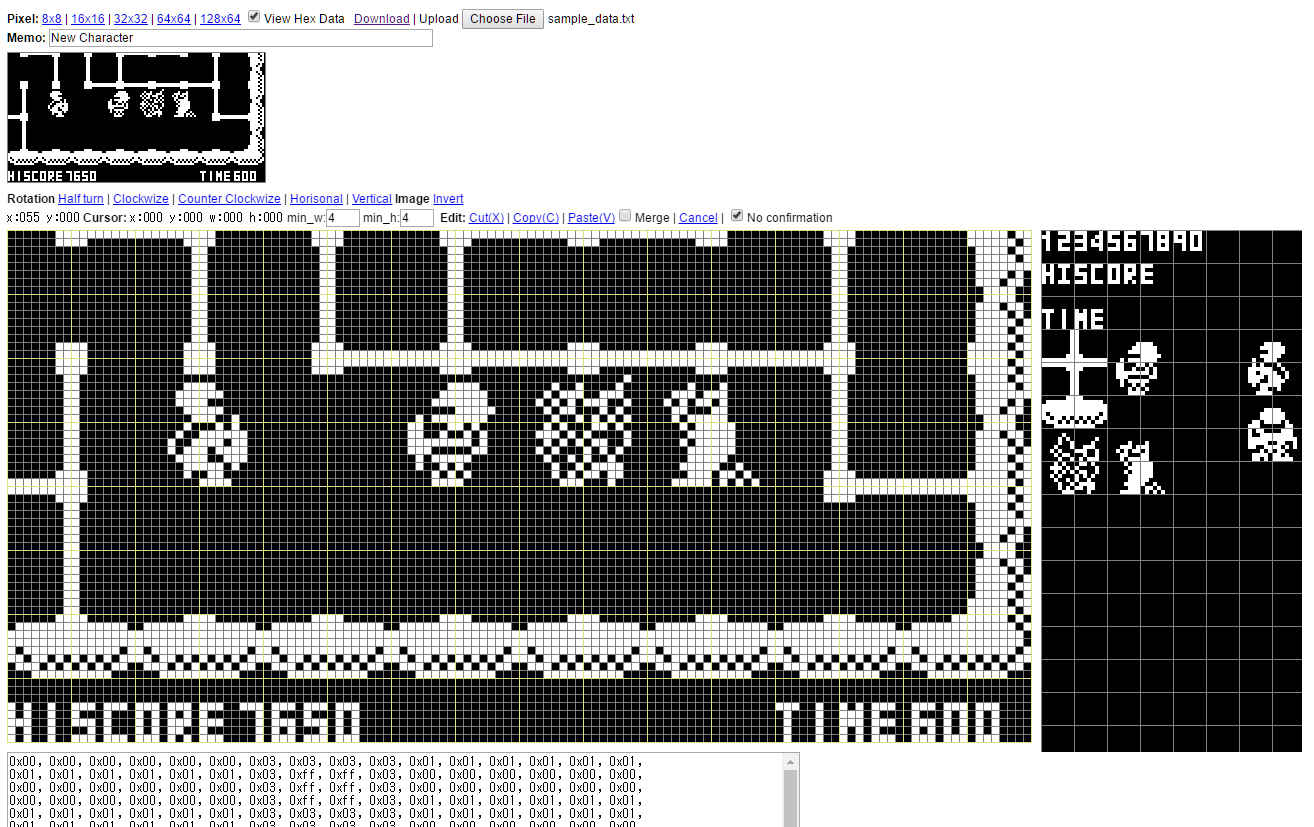
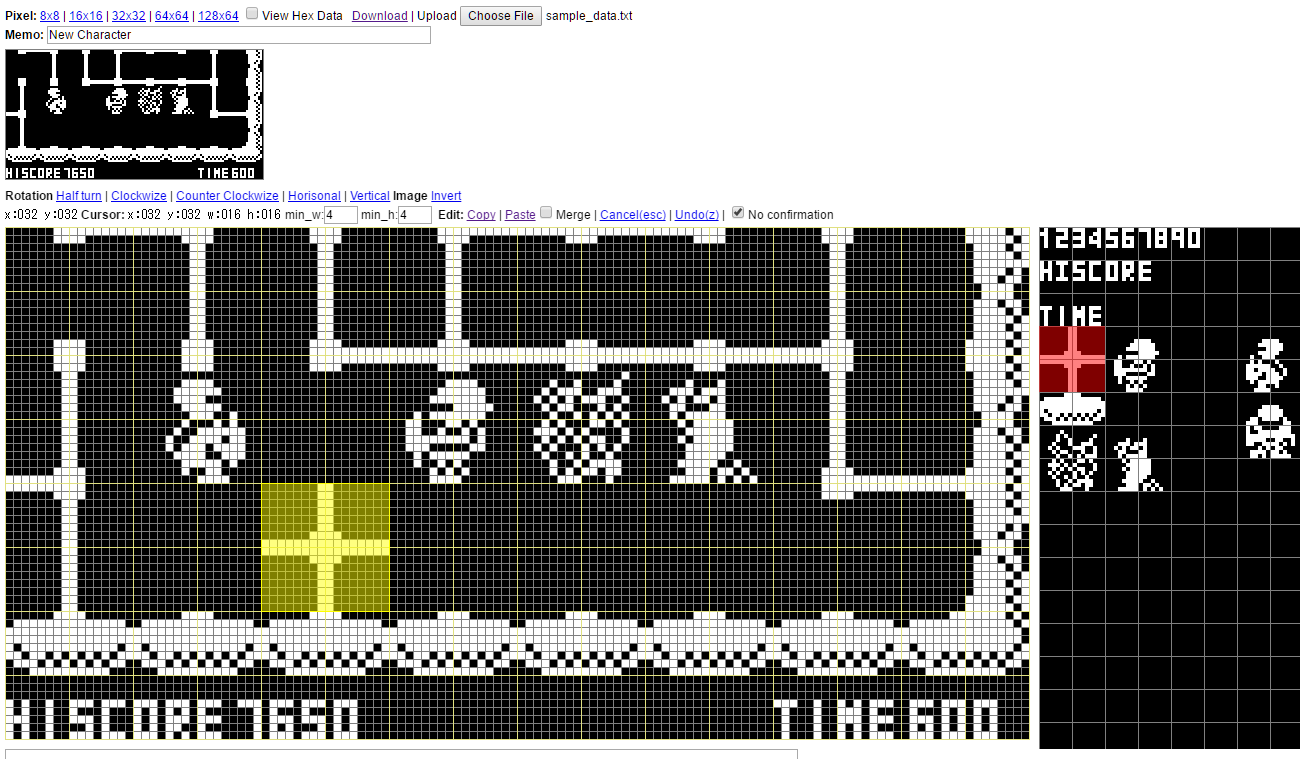
Add undo of edit data, fix area selection

diff --git a/js/edit.js b/js/edit.js
@@ -156,7 +156,7 @@ function edit_paste(){
   }
 
   var flag = true;
-  if(edit_alert){
+  if(!edit_alert){
     flag = edit_confirm_alert(mes);
   }
 
@@ -174,56 +174,29 @@ function set_merge_paste(){
   }
 }
 
-function edit_copy(){
-  if(!check_select_area()){
-    set_edit_mes('no_rect_copy');
-    return;
-  }
-  edit_exit();
-}
-
-function edit_cut(){
-  var mes = 'cut';
-
-  if(!check_select_area()){
-    set_edit_mes('no_rect_paste');
-    return;
-  }
+function edit_undo(){
+  var mes = 'undo';
 
   var flag = true;
-  if(edit_alert){
+  if(!edit_alert){
     flag = edit_confirm_alert(mes);
   }
 
-  if(flag){
-    if(check_select_area() == 'edit'){
-      var view_x = cur_info['view_x'];
-      var view_y = cur_info['view_y'];
-      var view_w = cur_info['view_w'];
-      var view_h = cur_info['view_h'];
-
-      for(var y = 0; y < view_h; y++){
-        for(var x = 0; x < view_w; x++){
-          var dx = x + view_x;
-          var dy = y + view_y;
-          set_bw(dx, dy, 0);
-        }
-      }
-    }else if(check_select_area() == 'clip'){
-      var c_clip_x = cur_info['c_view_x'];
-      var c_clip_y = cur_info['c_view_y'];
-      var c_clip_w = cur_info['c_view_w'];
-      var c_clip_h = cur_info['c_view_h'];
-
-      for(var y = 0; y < c_clip_h; y++){
-        for(var x = 0; x < (c_clip_w * 8); x++){
-          var p = (x + c_clip_x * 8) + ((y + c_clip_y) * CLIP_MAX_X * 8);
-          clipboard[p] = '0x00';
-        }
-      }
-    }
+  if(flag && undo_flag){
+    d = undo_d.concat();
+    clipboard = undo_clipboard.concat();
+    undo_flag = false;
+    $('#edit_undo').css({ display: 'none'});
+ 
+    edit_exit();
   }
-  edit_exit();
+}
+
+function copy_data(){
+  undo_d = d.concat();
+  undo_clipboard = clipboard.concat();
+  undo_flag = true;
+  $('#edit_undo').css({ display: 'inline'});
 }
 
 function edit_cancel(){
@@ -244,7 +217,7 @@ function edit_confirm(mes){
   }
 
   var flag = true;
-  if(edit_alert){
+  if(!edit_alert){
     flag = edit_confirm_alert(mes);
   }
   return flag;
@@ -256,8 +229,8 @@ function edit_confirm_alert(mes){
 
 function set_edit_alert(){
   if($('#edit_alert').prop('checked')){
-    edit_alert = false;
-  }else{
     edit_alert = true;
+  }else{
+    edit_alert = false;
   }
 }

diff --git a/js/init.js b/js/init.js
@@ -36,9 +36,10 @@ var EDITOR_MAX_X = (8 * 128) + 1 + 270;
 var EDITOR_MAX_Y = PRE_PIXEL_SIZE * MAX_PIXEL_Y + EDITOR_MENU_SIZE + (CLIP_MAX_Y * CLIP_BLOCK_SIZE + 10);
 
 var d = new Array();
-var p = new Array();
 var edit_clip = null;
 var clipboard = null;
+var undo_d = new Array();
+var undo_clipboard = new Array();
 var set_w = null;
 var set_b = null;
 var get_dy = null;
@@ -47,10 +48,12 @@ var ctx = null;
 var cursor = null;
 var c_ctx = null;
 var cur_info = new Array();
-var edit_alert = false;
 var edit_mes = new Array();
-var merge_paste = false;
-var view_hx = false;
+var edit_alert = null;
+var merge_paste = null;
+var view_hx = null;
+var undo_flag = false;
+var paste_flag = false;
 
 init_edit_data();
 init_clip_data();
@@ -294,16 +297,16 @@ function init_edit_data(){
     0,//"10000000b"
   ];
 
-  var CtrlKeyText = 'CTRL';
-  if(is_mac()){ CtrlKeyText = 'Command'; }
+  //var CtrlKeyText = 'CTRL';
+  //if(is_mac()){ CtrlKeyText = 'Command'; }
 
   edit_mes = {
-    start_cur: 'SHIFT key press + Mouse drag -> Mouse up (SHIFT key press)',
-    no_rect: 'Please select a area (SHIFT key press + Mouse move)',
-    no_rect_cut: 'Please select a area (SHIFT key press + Mouse move) -> Click ' + CtrlKeyText + ' + X',
-    no_rect_copy: 'Please select a area (SHIFT key press + Mouse move) -> Click ' + CtrlKeyText + ' + C',
-    no_rect_paste: 'Please select a area (SHIFT key press + Mouse move) -> Click ' + CtrlKeyText + ' + V',
+    no_rect: 'Please select a area (SHIFT key press + Mouse drag)',
+    start_cur: 'SHIFT key press + Mouse click and drag -> Mouse up (SHIFT key press) -> Copy',
     drag_paste: 'Mouse drag (SHIFT key press) -> SHIFT key up -> Paste',
+    edit_copy: 'SHIFT key press + Mouse click and drag (Red selection) -> Mouse up',
+    edit_paste: 'SHIFT key press + Mouse drag (Yellow selection) -> Mouse up',
+    edit_undo: 'Return one history editing',
   };
 
 }

diff --git a/js/main.js b/js/main.js
@@ -16,11 +16,18 @@ window.onload = function(){
   init_editor();
   init_clip();
 
+  merge_paste = false;
+  edit_alert = true;
+  view_hx = false;
+
+  $('#merge_paste').prop("checked", merge_paste);
+  $('#edit_alert').prop("checked", edit_alert);
+  $('#view_hx').prop("checked", view_hx);
+
   $('#memo').attr({ value: 'New Character' });
   $('#min_w').attr({ value: cur_info['min_w'] });
   $('#min_h').attr({ value: cur_info['min_h'] });
-
-  $('#merge_paste').prop("checked",false);
+  $('#edit_undo').css({ display: 'none'});
 
 /*
   $(window).on('beforeunload', function() {
@@ -35,24 +42,18 @@ window.onload = function(){
           return false;
       }
       if(e.ctrlKey || (e.metaKey && is_mac()) ){
-        if(e.keyCode === 67){
-          edit_copy();
-          return false;
-        }
-        if(e.keyCode === 86){
-          edit_paste();
-          return false;
-        }
-        if(e.keyCode === 88){
-          edit_cut();
+        if(e.keyCode === 90 && undo_flag){
+          edit_undo();
           return false;
         }
       }
     });
+
     $(window).keyup(function(e){
-      if(!e.shiftKey){
+      if(!e.shiftKey && paste_flag){
         cur_info['down'] = false;
         cur_info['c_down'] = false;
+        paste_flag = false;
 
         //clipboard
         if(check_clip_area()){

diff --git a/index.html b/index.html
@@ -50,11 +50,11 @@ Upload <input type="file" id="data_upload" accept="text/*"><br>
 <span id="edit_info"></span> min_w:<input type="text" name="min_w" id="min_w"> min_h:<input type="text" name="min_h" id="min_h">&nbsp;
 
 <b>Edit:</b>
-<a href="javascript:edit_cut();">Cut(x)</a> | 
-<a href="javascript:edit_copy();">Copy(c)</a> | 
-<a href="javascript:edit_paste();">Paste(v)</a><input type="checkbox" name="merge_paste" id="merge_paste" onclick="set_merge_paste()" value="">Merge | 
+<a href="#" onmouseover="set_edit_mes('edit_copy'); return false;">Copy</a> | 
+<a href="#" onmouseover="set_edit_mes('edit_paste');  return false;">Paste</a><input type="checkbox" name="merge_paste" id="merge_paste" onclick="set_merge_paste()" value="">Merge | 
 <a href="javascript:edit_cancel();">Cancel(esc)</a> | 
-<input type="checkbox" name="edit_alert" id="edit_alert" onclick="set_edit_alert()" value="" checked>No confirmation
+<span id="edit_undo"><a href="javascript:edit_undo();" onmouseover="set_edit_mes('edit_undo');">Undo(z)</a> | </span>
+<input type="checkbox" name="edit_alert" id="edit_alert" onclick="set_edit_alert()" value="">No confirmation
 </span>
 
 <textarea id="hx" rows="30" cols="110"></textarea><br>

diff --git a/js/cursor.js b/js/cursor.js
@@ -72,6 +72,9 @@ function set_clip_bw(x,y,bw){
 }
 
 function set_edit_clip(){
+  copy_data();
+  paste_flag = true;
+  
   if(check_select_area() == 'edit'){
     var clip_x = cur_info['view_x'];
     var clip_y = cur_info['view_y'];
@@ -133,7 +136,6 @@ function start_cur(){
 
   if(cur_info['rect']){
     init_editor();
-    reset_data();
   }
 
   cur_info['down'] = true;
@@ -154,7 +156,7 @@ function end_cur(){
   var w = cur_info['view_w'] * PIXEL_SIZE;
   var h = cur_info['view_h'] * PIXEL_SIZE;
 
-  set_editor_fillrect(x,y,w,h,EDITOR_CUR,0.5);
+  set_editor_fillrect(x, y, w + 1, h + 1, EDITOR_CUR, 0.5);
 
   cur_info['rect'] = true;
   set_edit_mes('drag_paste');
@@ -185,12 +187,12 @@ function view_cur(){
   del_cur_all();
   view_cur_bw();
 
-  if(cur_info['dx'] > cur_info['view_x']){
+  if(cur_info['dx'] > cur_info['view_x'] + 5){
     cur_info['view_x'] = cur_info['dx'] - cur_info['view_w'];
   }else{
     cur_info['view_x'] = cur_info['dx'];
   }
-  if(cur_info['dy'] > cur_info['view_y']){
+  if(cur_info['dy'] > cur_info['view_y'] + 5){
     cur_info['view_y'] = cur_info['dy'] - cur_info['view_h'];
   }else{
     cur_info['view_y'] = cur_info['dy'];

diff --git a/js/clipboard.js b/js/clipboard.js
@@ -31,7 +31,7 @@ function end_clip_cur(){
   var h = cur_info['c_view_h'] * CLIP_BLOCK_SIZE;
 
   cur_info['c_rect'] = true;
-  set_editor_fillrect(x,y,w,h,EDITOR_CUR,0.5);
+  set_editor_fillrect(x, y, w + 1, h + 1, EDITOR_CUR, 0.5);
   set_edit_mes('drag_paste');
 }
 
